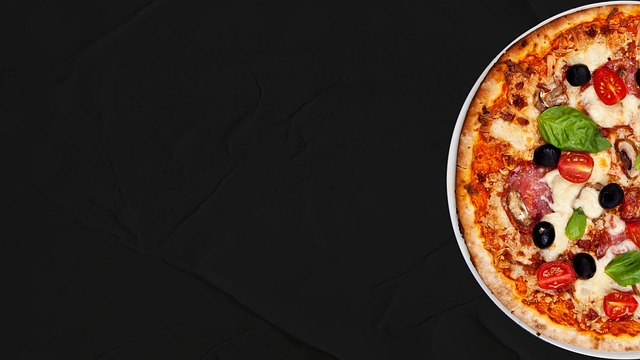
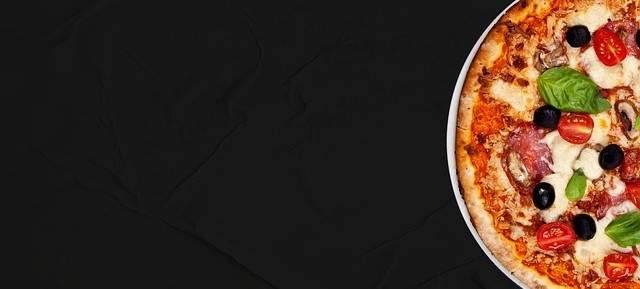
add responsiveness

Changed region(s): [[0.6875, 0.0, 1.0, 1.0]]

diff --git a/client/src/index.css b/client/src/index.css
@@ -355,7 +355,8 @@ header .navbar a:hover {
   border: .1rem solid rgba(205, 170, 124, 0.2);
 }
 
-header .icons button {
+header .icons button,
+header .icons #menu {
   cursor: pointer;
   border-radius: 15px;
   margin-left: .5rem;
@@ -368,7 +369,10 @@ header .icons button {
   color: #fff;
 }
 
-header .icons button:hover {
+
+
+header .icons button:hover,
+header .icons #menu:hover {
   color: var(--light-color);
   background: #fff;
 }
@@ -380,7 +384,7 @@ header .icons #menu {
 /* Slider starts here */
 
 .slider-img {
-  width: 100vw;
+  /* width: 100vw; */
   height: 100vh;
   background-size: cover;
   background-repeat: no-repeat;
@@ -435,5 +439,106 @@ header .icons #menu {
   height: 15px!important;
   border-radius: 50%;
 }
+
+
+@media (max-width: 991px) {
+  html {
+      font-size: 55%;
+  }
+  header {
+      padding: 1rem 2rem;
+  }
+  header .logo img {
+      height: 7rem;
+  }
+}
+
+/* Media */
+
+@media (max-width: 768px) {
+  header .logo img {
+      height: 7rem;
+  }
+  header .icons #menu {
+      display: inline-block;
+  }
+  header .navbar {
+      position: absolute;
+      top: 100%;
+      left: 0;
+      right: 0;
+      background: #eee;
+      border-top: .1rem solid rgba(205, 170, 124, 0.2);
+      border-bottom: .1rem solid rgba(205, 170, 124, 0.2);
+      padding: 1rem;
+      clip-path: polygon(0 0,100% 0,100% 0,0 0);
+  }
+  header .navbar.active {
+      clip-path: polygon(0 0,100% 0,100% 100%,0 100%);
+  }
+  header .navbar a {
+      display: block;
+      padding: 1.5rem;
+      margin: 1rem;
+      font-size: 2rem;
+      background: var(--black);
+  }
+  
+  header .icons {
+    display: flex;
+    justify-content: space-between;
+  }
+
+  
+}
+
+@media (max-width: 678px) {
+  .content {
+    padding-left: 0px;
+  }
+}
+
+@media (max-width: 678px) {
+  .content {
+    min-width: 250px;
+    min-height: 250px;
+    left: 100px;
+    text-align: center;
+  }
+
+  .content h3 {
+    color: var(--light-color);
+    font-size: 2rem;
+    font-weight: 300;
+  }
+  
+  .content h1 {
+    color: #fff;
+    font-size: 5rem;
+  }
+  
+  .content p {
+    color: #e6e7e7;
+    font-size: 1.8rem;
+    letter-spacing: 1px;
+    padding: .5rem 0;
+    line-height: 1.5;
+    font-weight: 200;
+  }
+}
+
+@media (max-width: 600px) {
+  .content {
+    min-width: 250px;
+    min-height: 250px;
+    left: 70px;
+    text-align: center;
+  }
+}
+
+
+
+
+
 
 

diff --git a/client/src/components/main/main.css b/client/src/components/main/main.css
@@ -1,12 +1,13 @@
 .main-page-container {
-    display: flex;
-    justify-content: center;
+    /* display: flex;
+    justify-content: center; */
     background: #1b1b1b;
     /* padding-top: 50px; */
 }
 
 .menu-container {
-    margin-top: 50px;
+    /* margin-top: 50px; */
+    padding: 50px;
 }
 
 .filter {
@@ -23,11 +24,9 @@ select {
     flex-direction: column;
     align-items: center;
     background-color: aliceblue;
-    /* border: 2px solid #cdaa7c; */
     border-radius: 20px;
     height: 500px;
     width: 300px;
-    /* margin: 140px 40px; */
     margin-top: 160px;
     margin-bottom: 100px;
     margin-left: 40px;
@@ -58,6 +57,9 @@ select {
     grid-gap: 20px;
     grid-template-columns: repeat(4,2fr);
     grid-row: 1fr;
+    /* display: flex;
+    flex-direction: row;
+    overflow: hidden; */
 }
 
 .drinks {
@@ -65,6 +67,7 @@ select {
     grid-gap: 20px;
     grid-template-columns: repeat(4,2fr);
     grid-row: 1fr;
+    
 }
 
 .desserts {
@@ -72,6 +75,7 @@ select {
     grid-gap: 20px;
     grid-template-columns: repeat(4,2fr);
     grid-row: 1fr;
+   
 }
 
 .img-box {
@@ -107,3 +111,73 @@ select {
     position: absolute;
     bottom: 80px;
 }
+
+@media (max-width: 1420px) {
+    .pizza {
+        grid-template-columns: repeat(3,2fr);
+    }
+    
+    .drinks {
+        grid-template-columns: repeat(3,2fr);
+    }
+
+    .desserts {
+        grid-template-columns: repeat(3,2fr);
+    }
+}
+
+@media (max-width: 1020px) {
+    .pizza {
+        grid-template-columns: repeat(2,2fr);
+    }
+    
+    .drinks {
+        grid-template-columns: repeat(2,2fr);
+    }
+
+    .desserts {
+        grid-template-columns: repeat(2,2fr);
+    }
+}
+
+@media (max-width: 600px) {
+    .pizza {
+      display: flex;
+      flex-direction: column;
+      justify-content: center;
+    }
+  
+    .drinks {
+    display: flex;
+    flex-direction: column;
+    justify-content: center;
+    }
+  
+    .desserts {
+    display: flex;
+    flex-direction: column;
+    justify-content: center;
+    }
+  
+    .title {
+      font-size: 20px;
+      width: 100px;
+    }
+  
+    .product-card-container {
+      height: 400px;
+      width: 230px;
+    }
+
+    .img-box {
+        width: 150px;
+        position: absolute;
+        top: -20%;
+    }
+    
+    .name {
+        margin-top: 100px;
+        font-size: 30px;
+    }
+  
+  }

diff --git a/client/src/components/header/Header.js b/client/src/components/header/Header.js
@@ -8,6 +8,14 @@ const Header = () => {
     const cart = useContext(CartContext);
     const cartQuantity = cart.items.reduce((accumulator, value) => accumulator + value.quantity, 0);
 
+    function handleHamburger() {
+        const menu = document.querySelector('#menu');
+        const navbar = document.querySelector('.navbar');
+
+        menu.classList.toggle('fa-times');
+        navbar.classList.toggle('active');
+    }
+
     function scroll(element) {
         if (element) {
             element.scrollIntoView({ behavior: 'smooth' });
@@ -43,7 +51,6 @@ const Header = () => {
         <header>
             <div className="logo-container">
                 <a href="#" className="logo"><img src="img/logo.png"/></a>
-                {/* <h1>Crustopia</h1> */}
             </div>
 
             <nav className="navbar">
@@ -51,11 +58,11 @@ const Header = () => {
                 <a href="#menu" onClick={handleMenu}>Menu</a>
                 <a href="#about" onClick={handleAbout}>About</a>
                 <a href="#contact" onClick={handleContact}>Contact</a>
-                <button onClick={() => cart.setIsAdminOpen(true)}>Orders</button>
+                <a href="#orders" onClick={() => cart.setIsAdminOpen(true)}>Orders</a>
             </nav>
 
             <div className="icons">
-                <button id="menu"><i className="fas fa-bars" ></i></button>
+                <i className="fas fa-bars" id="menu" onClick={handleHamburger}></i>
 
                 <div className="cart-btn-container">
                     <button className="cart-btn" onClick={() => handleOpen()}><i className="fas fa-shopping-cart"></i></button>

diff --git a/client/src/components/contact/Contact.js b/client/src/components/contact/Contact.js
@@ -37,10 +37,10 @@ const Contact = () => {
 
                 <div className='social contact'>
                     <div className='social-title contact-title'>Social</div>
-                    <div><i class="fa-brands fa-facebook-f" style={{color: "#ffffff"}}></i></div>
-                    <div><i class="fa-brands fa-twitter" style={{color: "#ffffff"}}></i></div>
-                    <div><i class="fa-brands fa-instagram" style={{color: "#ffffff"}}></i></div>
-                    <div><i class="fa-brands fa-tiktok" style={{color: "#ffffff"}}></i></div>
+                    <div><i className="fa-brands fa-facebook-f" style={{color: "#ffffff"}}></i></div>
+                    <div><i className="fa-brands fa-twitter" style={{color: "#ffffff"}}></i></div>
+                    <div><i className="fa-brands fa-instagram" style={{color: "#ffffff"}}></i></div>
+                    <div><i className="fa-brands fa-tiktok" style={{color: "#ffffff"}}></i></div>
                 </div>
             </div>
 

diff --git a/client/src/components/contact/contact.css b/client/src/components/contact/contact.css
@@ -37,3 +37,23 @@ footer {
     padding: 20px;
     font-size: 13px;
 }
+
+
+@media (max-width: 600px) {
+    .contact-title {
+        font-size: 15px;
+        font-weight: 500;
+        margin-bottom: 15px;
+    }
+    
+    .contact-info {
+        font-size: 8px;
+        margin: 5px 0px;
+    }
+    
+    .social i {
+        font-size: 15px;
+        margin: 5px 0px;
+        cursor: pointer;
+    }
+}

diff --git a/client/src/components/about/about.css b/client/src/components/about/about.css
@@ -47,6 +47,18 @@
     color: #cdaa7c;
 }
 
+@media (max-width: 600px) {
+    .staff-pic {
+        width: 150px;
+        height: 150px;
+    }
+
+    .staff-pic img {
+        width: 140px;
+        height: 140px;
+    }
+}
+
 
 
 
